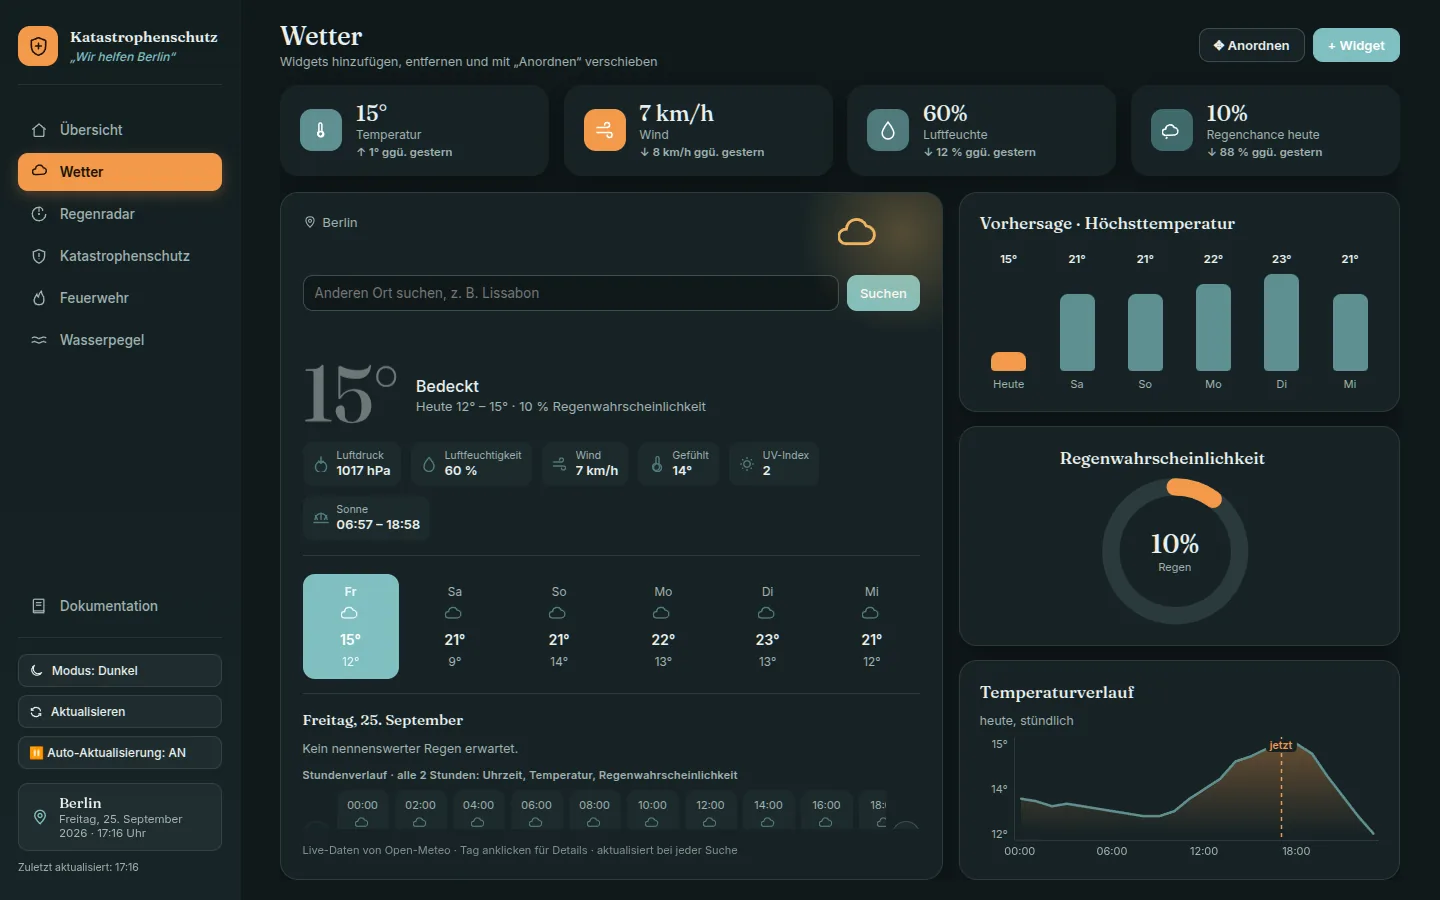
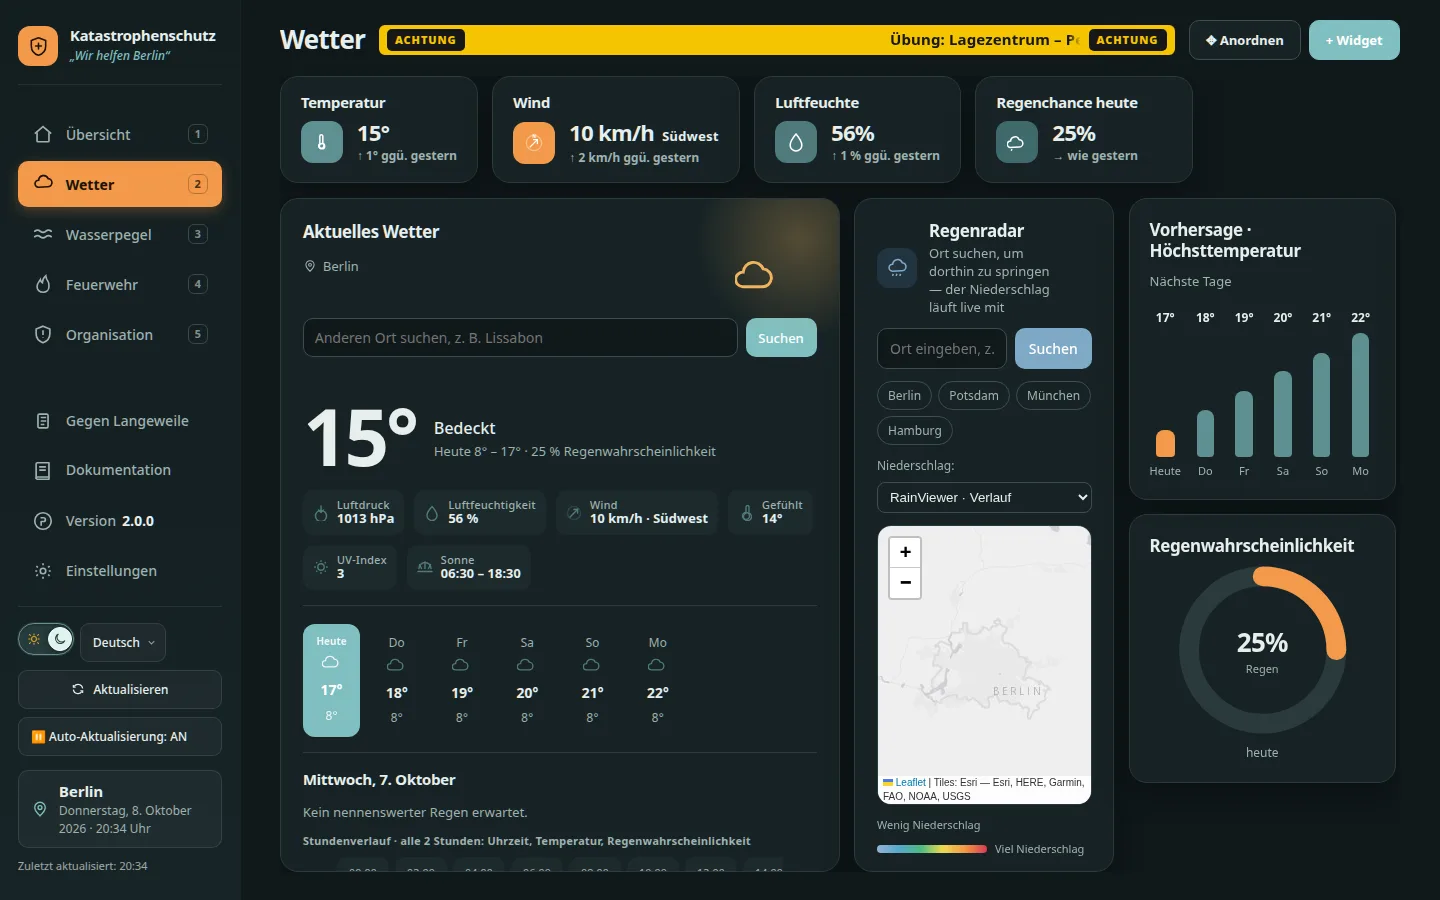
Dokumentation an Version 2 anpassen: neue Screenshots und fehlende Funktionen.

diff --git a/docs.html b/docs.html
@@ -64,7 +64,7 @@
         <svg viewBox="0 0 24 24" fill="none" stroke="currentColor" stroke-width="2" stroke-linecap="round"><path d="M15 6l-6 6 6 6"/></svg>
         <span data-i18n="docs.back">Zum Dashboard</span>
       </a>
-      <div class="sidebar-status" data-i18n="docs.updated">Stand: September 2026</div>
+      <div class="sidebar-status" data-i18n="docs.updated">Stand: Oktober 2026</div>
     </div>
   </aside>
 
@@ -84,10 +84,10 @@
       <p>Live unter <a href="https://dashboard-projekt-lenny-kevin.vercel.app/" target="_blank" rel="noopener">dashboard-projekt-lenny-kevin.vercel.app</a>. Lokal starten: <code>README.md</code> oder <a href="#entwicklung">Entwicklung &amp; Deployment</a>.</p>
       <figure class="docs-shot">
         <img src="img/docs/uebersicht.webp" width="1440" height="900" loading="lazy" alt="Dashboard mit Seitenleiste links und der Übersicht mit Wetter-Widgets">
-        <figcaption>„Meine Übersicht“ mit der Standard-Auswahl. Links die Seitenleiste mit Navigation, Einstellungen und Standort.</figcaption>
+        <figcaption>„Meine Übersicht“ mit der Standard-Auswahl. In der Seitenleiste stehen die Tastaturkürzel 1–5, darunter Gegen Langeweile, Dokumentation, Version und Einstellungen.</figcaption>
       </figure>
       <div class="docs-grid">
-        <div class="docs-tile"><strong>1. Seite wählen</strong><span>Links in der Seitenleiste zwischen Übersicht, Wetter, Wasserpegel, Feuerwehr und Organisation wechseln.</span></div>
+        <div class="docs-tile"><strong>1. Seite wählen</strong><span>Links in der Seitenleiste oder mit den Tasten 1–5 zwischen Übersicht, Wetter, Wasserpegel, Feuerwehr und Organisation wechseln.</span></div>
         <div class="docs-tile"><strong>2. Übersicht zusammenstellen</strong><span>Auf „Meine Übersicht“ mit „+ Widget“ genau die Kacheln einblenden, die du brauchst.</span></div>
         <div class="docs-tile"><strong>3. Anordnen</strong><span>Mit „✥ Anordnen“ Widgets verschieben und ihre Größe ändern. Mit „✓ Fertig“ beenden.</span></div>
       </div>
@@ -100,7 +100,7 @@
         <dt>Warn-Banner</dt><dd>In der Kopfzeile, zwischen Seitentitel und den Schaltflächen, läuft ein Hinweis von rechts nach links. Links und rechts steht immer „ACHTUNG“ (gelb-schwarz, auch bei Rot-Grün-Schwäche gut lesbar). Den Text stellst du unter Organisation im Widget „Warn-Banner“ ein. Ohne Text bleibt das Banner unsichtbar.</dd>
         <dt>Gegen Langeweile</dt><dd>Zeigt Spielkacheln. Klondike-Solitaire kommt von solitaire-online.com, Tic Tac Toe und Dino Game von Jotform. „← Spiele“ führt zurück zur Auswahl.</dd>
         <dt>Dokumentation</dt><dd>Öffnet diese Anleitung in einem eigenen Fenster.</dd>
-        <dt>Version</dt><dd>Zeigt die aktuelle Versionsnummer und öffnet das Changelog.</dd>
+        <dt>Version</dt><dd>Zeigt die aktuelle Versionsnummer und öffnet das Changelog mit den Änderungen der Version 2.</dd>
         <dt>Einstellungen</dt><dd>Tastaturkürzel für Übersicht, Wetter, Wasserpegel, Feuerwehr und Organisation. Standard ist 1–5. Eine Taste in der Liste anklicken und die neue Taste drücken; Rücktaste entfernt das Kürzel. In Suchfeldern greifen die Kürzel nicht.</dd>
         <dt>Modus: Hell / Dunkel</dt><dd>Wechselt das Farbschema. Ohne eigene Wahl richtet sich das Dashboard nach der Systemeinstellung.</dd>
         <dt>Sprache</dt><dd>Das Auswahlfeld neben dem Farbmodus stellt Dashboard und Dokumentation auf eine andere Sprache um (derzeit Deutsch und English). Die Seite lädt dabei kurz neu, alle Einstellungen bleiben erhalten. Ohne eigene Wahl gilt die Sprache des Browsers.</dd>
@@ -111,6 +111,14 @@
       <figure class="docs-shot">
         <img src="img/docs/uebersicht-hell.webp" width="1440" height="900" loading="lazy" alt="Übersicht im hellen Farbmodus">
         <figcaption>Dieselbe Übersicht im Modus „Hell“.</figcaption>
+      </figure>
+      <figure class="docs-shot">
+        <img src="img/docs/einstellungen.webp" width="1440" height="900" loading="lazy" alt="Dialog Einstellungen mit Tastaturkürzeln 1 bis 5">
+        <figcaption>Einstellungen: Tasten 1–5 für die fünf Hauptseiten. Eine Taste anklicken, dann neu belegen.</figcaption>
+      </figure>
+      <figure class="docs-shot">
+        <img src="img/docs/version.webp" width="1440" height="900" loading="lazy" alt="Changelog-Fenster der Version 2.0.0">
+        <figcaption>Das Changelog unter Version, mit den Änderungen seit dem 28. September 2026.</figcaption>
       </figure>
     </section>
 
@@ -155,10 +163,10 @@
     <section class="docs-card" id="seiten">
       <h2>Die Seiten</h2>
       <h3>Wetter</h3>
-      <p>Aktuelles Wetter mit Temperatur, Wetterlage, Luftdruck, Luftfeuchtigkeit, Wind (Geschwindigkeit und Richtung), gefühlter Temperatur, UV-Index und Sonnenzeiten. Dazu kommen eine 6-Tage-Vorhersage, ein Stundenverlauf, die Kennzahlen im Vergleich zu gestern und das Regenradar. Über das Suchfeld lässt sich ein anderer Ort wählen, z. B. „Lissabon“. Ein Klick auf einen Tag zeigt dessen Details.</p>
+      <p>Aktuelles Wetter mit Temperatur, Wetterlage, Luftdruck, Luftfeuchtigkeit, Wind (Geschwindigkeit und Richtung als Kompass bzw. Himmelsrichtung), gefühlter Temperatur, UV-Index und Sonnenzeiten. Die Kennzahlen stehen im F-Muster in einer Zeile. Dazu kommen eine 6-Tage-Vorhersage, ein Stundenverlauf und das Regenradar neben dem aktuellen Wetter. Über das Suchfeld lässt sich ein anderer Ort wählen, z. B. „Lissabon“. Ein Klick auf einen Tag zeigt dessen Details.</p>
       <figure class="docs-shot">
-        <img src="img/docs/wetter.webp" width="1440" height="900" loading="lazy" alt="Wetterseite mit Kennzahlen, aktuellem Wetter, Vorhersage und Temperaturverlauf">
-        <figcaption>Wetterseite: oben die Kennzahlen, links das Wetter-Panel mit Suche, Tagen und Stundenverlauf, rechts die Diagramme.</figcaption>
+        <img src="img/docs/wetter.webp" width="1440" height="900" loading="lazy" alt="Wetterseite mit Kennzahlen in einer Zeile, aktuellem Wetter, Radar und Vorhersage">
+        <figcaption>Wetterseite: oben die Kennzahlen in einer Zeile, daneben aktuelles Wetter, Regenradar und Vorhersage.</figcaption>
       </figure>
       <p>Das Regenradar sitzt auf derselben Seite: Ort suchen oder eine Schnellwahl (Berlin, Potsdam, München, Hamburg) anklicken. Unter „Niederschlag“ wählst du die Quelle:</p>
       <ul>
@@ -187,6 +195,12 @@
         <img src="img/docs/katastrophenschutz.webp" width="1440" height="900" loading="lazy" alt="Seite Organisation mit Warnliste, Notrufnummern und To-do-Liste">
         <figcaption>Organisation: Die Warnungen sind nach Status markiert (Neu, Update, Aufgehoben) und lassen sich nach Ort filtern.</figcaption>
       </figure>
+      <h3>Gegen Langeweile</h3>
+      <p>Optionale Spiele außerhalb der Lageübersicht: Klondike-Solitaire, Tic Tac Toe und Dino Game. Ein Klick auf eine Kachel startet das Spiel, „← Spiele“ führt zur Auswahl zurück.</p>
+      <figure class="docs-shot">
+        <img src="img/docs/gegen-langeweile.webp" width="1440" height="900" loading="lazy" alt="Seite Gegen Langeweile mit drei Spielkacheln">
+        <figcaption>Spielauswahl: Klondike, Tic Tac Toe und Dino Game.</figcaption>
+      </figure>
     </section>
 
     <section class="docs-card" id="widgets">
@@ -198,7 +212,7 @@
           <tbody>
             <tr><td rowspan="9">Wetter</td><td>Aktuelles Wetter</td><td>Ort, Suche, Vorhersage und Stundenverlauf</td></tr>
             <tr><td>Temperatur</td><td>Aktuelle Temperatur im Vergleich zu gestern</td></tr>
-            <tr><td>Wind</td><td>Windgeschwindigkeit und -richtung im Vergleich zu gestern</td></tr>
+            <tr><td>Wind</td><td>Windgeschwindigkeit und -richtung (Kompass und Himmelsrichtung) im Vergleich zu gestern</td></tr>
             <tr><td>Luftfeuchte</td><td>Relative Luftfeuchtigkeit im Vergleich zu gestern</td></tr>
             <tr><td>Regenchance heute</td><td>Regenchance für heute im Vergleich zu gestern</td></tr>
             <tr><td>Vorhersage · Höchsttemperatur</td><td>Höchstwerte der nächsten Tage als Balken</td></tr>
@@ -289,7 +303,7 @@
         <table class="docs-table">
           <thead><tr><th>Datei</th><th>Aufgabe</th></tr></thead>
           <tbody>
-            <tr><td><code>index.html</code></td><td>Struktur aller Seiten (<code>.page</code>), Seitenleiste, Dialoge für „Widget hinzufügen“ und „Zurücksetzen“</td></tr>
+            <tr><td><code>index.html</code></td><td>Struktur aller Seiten (<code>.page</code>), Seitenleiste, Dialoge für „Widget hinzufügen“, „Zurücksetzen“, Einstellungen und Changelog</td></tr>
             <tr><td><code>css/style.css</code></td><td>Alle Styles: Farbvariablen für Hell/Dunkel, Seitenleiste, Widgets, Container-Queries, Mobile-Ansicht</td></tr>
             <tr><td><code>js/app.js</code></td><td>Gesamte Logik: Navigation, Theme, Datenabrufe, Diagramme, Widget-Katalog, Layout-System</td></tr>
             <tr><td><code>js/i18n.js</code></td><td>Mehrsprachigkeit: Übersetzungsfunktion <code>t()</code>, Sprachwahl, Sprach-Auswahlfeld</td></tr>
@@ -490,6 +504,7 @@ npm run test:headed  # dieselben Tests, Browser sichtbar</code></pre>
             <tr><td><code>dashboard-collapsed</code></td><td>IDs eingeklappter Widgets</td></tr>
             <tr><td><code>dashboard-cal-events</code></td><td>Kalendertermine</td></tr>
             <tr><td><code>dashboard-banner-text</code></td><td>Lauftext des Warn-Banners</td></tr>
+            <tr><td><code>dashboard-shortcuts</code></td><td>Tastaturkürzel der fünf Hauptseiten (Standard 1–5)</td></tr>
             <tr><td><code>dashboard-widget-notes</code>, <code>-todo</code>, <code>-countdown</code>, <code>-checklist</code></td><td>Inhalte der jeweiligen Widgets</td></tr>
             <tr><td><code>dashboard-water-station</code></td><td>Gewählter Pegel (UUID). Standard ist Berlin-Köpenick</td></tr>
           </tbody>
@@ -568,6 +583,7 @@ function mountMeinWidget(body) {
             <tr><td><a href="https://warnung.bund.de/" target="_blank" rel="noopener">warnung.bund.de</a> (BBK, NINA)</td><td>Keine ausdrückliche Lizenz. Quelle: BBK und die jeweils herausgebende Stelle</td></tr>
             <tr><td><a href="https://leafletjs.com/" target="_blank" rel="noopener">Leaflet 1.9.4</a></td><td><a href="https://github.com/Leaflet/Leaflet/blob/main/LICENSE" target="_blank" rel="noopener">BSD 2-Clause</a></td></tr>
             <tr><td><a href="https://fonts.google.com/specimen/Outfit" target="_blank" rel="noopener">Outfit</a>, <a href="https://fonts.google.com/specimen/Source+Sans+3" target="_blank" rel="noopener">Source Sans 3</a></td><td><a href="https://openfontlicense.org/" target="_blank" rel="noopener">SIL Open Font License 1.1</a></td></tr>
+            <tr><td><a href="https://www.solitaire-online.com/" target="_blank" rel="noopener">Klondike</a> (solitaire-online.com), <a href="https://www.jotform.com/" target="_blank" rel="noopener">Tic Tac Toe und Dino Game</a> (Jotform)</td><td>Eingebettete Spiele unter „Gegen Langeweile“, Nutzungsbedingungen der jeweiligen Anbieter</td></tr>
           </tbody>
         </table>
       </div>

diff --git a/js/lang/docs.en.js b/js/lang/docs.en.js
@@ -14,10 +14,10 @@ I18N.registerDocs("en", `
       <p>Live at <a href="https://dashboard-projekt-lenny-kevin.vercel.app/" target="_blank" rel="noopener">dashboard-projekt-lenny-kevin.vercel.app</a>. To run it locally, see <code>README.md</code> or <a href="#entwicklung">Development &amp; deployment</a>.</p>
       <figure class="docs-shot">
         <img src="img/docs/uebersicht.webp" width="1440" height="900" loading="lazy" alt="Dashboard with the sidebar on the left and the overview with weather widgets">
-        <figcaption>“My overview” with the default selection. On the left, the sidebar with navigation, settings and location.</figcaption>
+        <figcaption>“My overview” with the default selection. The sidebar shows keyboard shortcuts 1–5, then Against boredom, Documentation, Version and Settings.</figcaption>
       </figure>
       <div class="docs-grid">
-        <div class="docs-tile"><strong>1. Choose a page</strong><span>Use the sidebar on the left to switch between Overview, Weather, Water levels, Fire brigade and Organisation.</span></div>
+        <div class="docs-tile"><strong>1. Choose a page</strong><span>Use the sidebar on the left or the keys 1–5 to switch between Overview, Weather, Water levels, Fire brigade and Organisation.</span></div>
         <div class="docs-tile"><strong>2. Build your overview</strong><span>On “My overview”, use “+ Widget” to show exactly the tiles you need.</span></div>
         <div class="docs-tile"><strong>3. Arrange</strong><span>Use “✥ Arrange” to move widgets and change their size. Finish with “✓ Done”.</span></div>
       </div>
@@ -31,7 +31,7 @@ I18N.registerDocs("en", `
         <dt>Warning banner</dt><dd>In the header, between the page title and the buttons, a notice scrolls from right to left. “ACHTUNG” is always shown on the left and right (yellow and black, readable with red-green colour vision deficiency). You set the text under Organisation in the “Warning banner” widget. Without text the banner stays hidden.</dd>
         <dt>Against boredom</dt><dd>Shows game tiles. Klondike solitaire is embedded from solitaire-online.com, tic-tac-toe and the dino game from Jotform. “← Games” returns to the selection.</dd>
         <dt>Documentation</dt><dd>Opens this guide in a separate window.</dd>
-        <dt>Version</dt><dd>Shows the current version number and opens the changelog.</dd>
+        <dt>Version</dt><dd>Shows the current version number and opens the changelog with the version 2 changes.</dd>
         <dt>Settings</dt><dd>Keyboard shortcuts for Overview, Weather, Water levels, Fire brigade and Organisation. Default is 1–5. Click a key in the list and press the new key; Backspace clears it. Shortcuts do not run while a search field is focused.</dd>
         <dt>Mode: Light / Dark</dt><dd>Switches the colour scheme. If you haven't chosen one, the dashboard follows your system setting.</dd>
         <dt>Language</dt><dd>The drop-down next to the colour mode switches the dashboard and the documentation to another language (currently German and English). The page reloads briefly and all settings are kept. If you haven't chosen one, the browser language is used.</dd>
@@ -42,6 +42,14 @@ I18N.registerDocs("en", `
       <figure class="docs-shot">
         <img src="img/docs/uebersicht-hell.webp" width="1440" height="900" loading="lazy" alt="Overview in light colour mode">
         <figcaption>The same overview in “Light” mode.</figcaption>
+      </figure>
+      <figure class="docs-shot">
+        <img src="img/docs/einstellungen.webp" width="1440" height="900" loading="lazy" alt="Settings dialog with keyboard shortcuts 1 to 5">
+        <figcaption>Settings: keys 1–5 for the five main pages. Click a key, then press a new one.</figcaption>
+      </figure>
+      <figure class="docs-shot">
+        <img src="img/docs/version.webp" width="1440" height="900" loading="lazy" alt="Changelog dialog for version 2.0.0">
+        <figcaption>The changelog under Version, with the changes since 28 September 2026.</figcaption>
       </figure>
     </section>
 
@@ -86,10 +94,10 @@ I18N.registerDocs("en", `
     <section class="docs-card" id="seiten">
       <h2>The pages</h2>
       <h3>Weather</h3>
-      <p>Current weather with temperature, conditions, air pressure, humidity, wind (speed and direction), feels-like temperature, UV index and sunrise/sunset times. On top of that there is a 6-day forecast, an hourly trend, the metrics compared with yesterday and the rain radar. Use the search field to choose another location, e.g. “Lisbon”. Clicking a day shows its details.</p>
+      <p>Current weather with temperature, conditions, air pressure, humidity, wind (speed and direction as a compass or bearing), feels-like temperature, UV index and sunrise/sunset times. The metrics sit in an F-pattern row. On top of that there is a 6-day forecast, an hourly trend and the rain radar beside the current weather. Use the search field to choose another location, e.g. “Lisbon”. Clicking a day shows its details.</p>
       <figure class="docs-shot">
-        <img src="img/docs/wetter.webp" width="1440" height="900" loading="lazy" alt="Weather page with metrics, current weather, forecast and temperature trend">
-        <figcaption>Weather page: the metrics at the top, the weather panel with search, days and hourly trend on the left, the charts on the right.</figcaption>
+        <img src="img/docs/wetter.webp" width="1440" height="900" loading="lazy" alt="Weather page with metrics in a row, current weather, radar and forecast">
+        <figcaption>Weather page: the metrics in a row at the top, then current weather, rain radar and forecast.</figcaption>
       </figure>
       <p>The rain radar is on the same page. Search for a location or click a quick pick (Berlin, Potsdam, Munich, Hamburg). Under “Precipitation” you choose the source:</p>
       <ul>
@@ -118,6 +126,12 @@ I18N.registerDocs("en", `
         <img src="img/docs/katastrophenschutz.webp" width="1440" height="900" loading="lazy" alt="Organisation page with list of warnings, emergency numbers and to-do list">
         <figcaption>Organisation: warnings are labelled by status (New, Update, Cancelled) and can be filtered by location.</figcaption>
       </figure>
+      <h3>Against boredom</h3>
+      <p>Optional games away from the situation overview: Klondike solitaire, tic-tac-toe and the dino game. Click a tile to start a game; “← Games” returns to the picker.</p>
+      <figure class="docs-shot">
+        <img src="img/docs/gegen-langeweile.webp" width="1440" height="900" loading="lazy" alt="Against boredom page with three game tiles">
+        <figcaption>Game picker: Klondike, tic-tac-toe and the dino game.</figcaption>
+      </figure>
     </section>
 
     <section class="docs-card" id="widgets">
@@ -129,7 +143,7 @@ I18N.registerDocs("en", `
           <tbody>
             <tr><td rowspan="9">Weather</td><td>Current weather</td><td>Place, search, forecast and hourly trend</td></tr>
             <tr><td>Temperature</td><td>Current temperature compared with yesterday</td></tr>
-            <tr><td>Wind</td><td>Wind speed and direction compared with yesterday</td></tr>
+            <tr><td>Wind</td><td>Wind speed and direction (compass and bearing) compared with yesterday</td></tr>
             <tr><td>Humidity</td><td>Relative humidity compared with yesterday</td></tr>
             <tr><td>Chance of rain today</td><td>Chance of rain for today compared with yesterday</td></tr>
             <tr><td>Forecast · High temperature</td><td>Highs for the coming days as bars</td></tr>
@@ -220,7 +234,7 @@ I18N.registerDocs("en", `
         <table class="docs-table">
           <thead><tr><th>File</th><th>Purpose</th></tr></thead>
           <tbody>
-            <tr><td><code>index.html</code></td><td>Structure of all pages (<code>.page</code>), sidebar, dialogs for “Add widget” and “Reset”</td></tr>
+            <tr><td><code>index.html</code></td><td>Structure of all pages (<code>.page</code>), sidebar, dialogs for “Add widget”, “Reset”, Settings and the changelog</td></tr>
             <tr><td><code>css/style.css</code></td><td>All styles: colour variables for light/dark, sidebar, widgets, container queries, mobile view</td></tr>
             <tr><td><code>js/app.js</code></td><td>All logic: navigation, theme, data fetching, charts, widget catalogue, layout system</td></tr>
             <tr><td><code>js/i18n.js</code></td><td>Internationalisation: translation function <code>t()</code>, language detection, language drop-down</td></tr>
@@ -421,6 +435,7 @@ npm run test:headed  # the same tests, browser visible</code></pre>
             <tr><td><code>dashboard-collapsed</code></td><td>IDs of collapsed widgets</td></tr>
             <tr><td><code>dashboard-cal-events</code></td><td>Calendar events</td></tr>
             <tr><td><code>dashboard-banner-text</code></td><td>Scrolling text of the warning banner</td></tr>
+            <tr><td><code>dashboard-shortcuts</code></td><td>Keyboard shortcuts for the five main pages (default 1–5)</td></tr>
             <tr><td><code>dashboard-widget-notes</code>, <code>-todo</code>, <code>-countdown</code>, <code>-checklist</code></td><td>Contents of the respective widgets</td></tr>
             <tr><td><code>dashboard-water-station</code></td><td>Selected gauge (UUID). The default is Berlin-Köpenick</td></tr>
           </tbody>
@@ -503,6 +518,7 @@ function mountMyWidget(body) {
             <tr><td><a href="https://warnung.bund.de/" target="_blank" rel="noopener">warnung.bund.de</a> (BBK, NINA)</td><td>No explicit licence. Source: BBK and the respective issuing authority</td></tr>
             <tr><td><a href="https://leafletjs.com/" target="_blank" rel="noopener">Leaflet 1.9.4</a></td><td><a href="https://github.com/Leaflet/Leaflet/blob/main/LICENSE" target="_blank" rel="noopener">BSD 2-Clause</a></td></tr>
             <tr><td><a href="https://fonts.google.com/specimen/Outfit" target="_blank" rel="noopener">Outfit</a>, <a href="https://fonts.google.com/specimen/Source+Sans+3" target="_blank" rel="noopener">Source Sans 3</a></td><td><a href="https://openfontlicense.org/" target="_blank" rel="noopener">SIL Open Font License 1.1</a></td></tr>
+            <tr><td><a href="https://www.solitaire-online.com/" target="_blank" rel="noopener">Klondike</a> (solitaire-online.com), <a href="https://www.jotform.com/" target="_blank" rel="noopener">tic-tac-toe and dino game</a> (Jotform)</td><td>Embedded games under “Against boredom”; terms of the respective providers</td></tr>
           </tbody>
         </table>
       </div>

diff --git a/js/lang/de.js b/js/lang/de.js
@@ -124,7 +124,7 @@ I18N.register("de", {
     "docs.nav.widgets": "Widget-Katalog",
     "docs.pageTitle": "Dokumentation – Katastrophenschutz „Wir helfen Berlin“",
     "docs.title": "Dokumentation",
-    "docs.updated": "Stand: September 2026",
+    "docs.updated": "Stand: Oktober 2026",
 
     "err.data": "Antwort unvollständig oder fehlerhaft",
     "err.forbidden": "Zugriff verweigert (API-Key prüfen)",
@@ -477,7 +477,7 @@ I18N.register("de", {
     "widget.weather-rain.title": "Regenchance heute",
     "widget.weather-temp.desc": "Aktuelle Temperatur im Vergleich zu gestern",
     "widget.weather-temp.title": "Temperatur",
-    "widget.weather-wind.desc": "Windgeschwindigkeit und -richtung im Vergleich zu gestern",
+    "widget.weather-wind.desc": "Windgeschwindigkeit und -richtung (Kompass und Himmelsrichtung) im Vergleich zu gestern",
     "widget.weather-wind.title": "Wind",
   },
 });

diff --git a/js/lang/en.js b/js/lang/en.js
@@ -124,7 +124,7 @@ I18N.register("en", {
     "docs.nav.widgets": "Widget catalogue",
     "docs.pageTitle": "Documentation – Civil Protection “Helping Berlin”",
     "docs.title": "Documentation",
-    "docs.updated": "Last updated: September 2026",
+    "docs.updated": "Last updated: October 2026",
 
     "err.data": "response incomplete or invalid",
     "err.forbidden": "access denied (check the API key)",
@@ -477,7 +477,7 @@ I18N.register("en", {
     "widget.weather-rain.title": "Chance of rain today",
     "widget.weather-temp.desc": "Current temperature compared with yesterday",
     "widget.weather-temp.title": "Temperature",
-    "widget.weather-wind.desc": "Wind speed and direction compared with yesterday",
+    "widget.weather-wind.desc": "Wind speed and direction (compass and bearing) compared with yesterday",
     "widget.weather-wind.title": "Wind",
   },
 });
